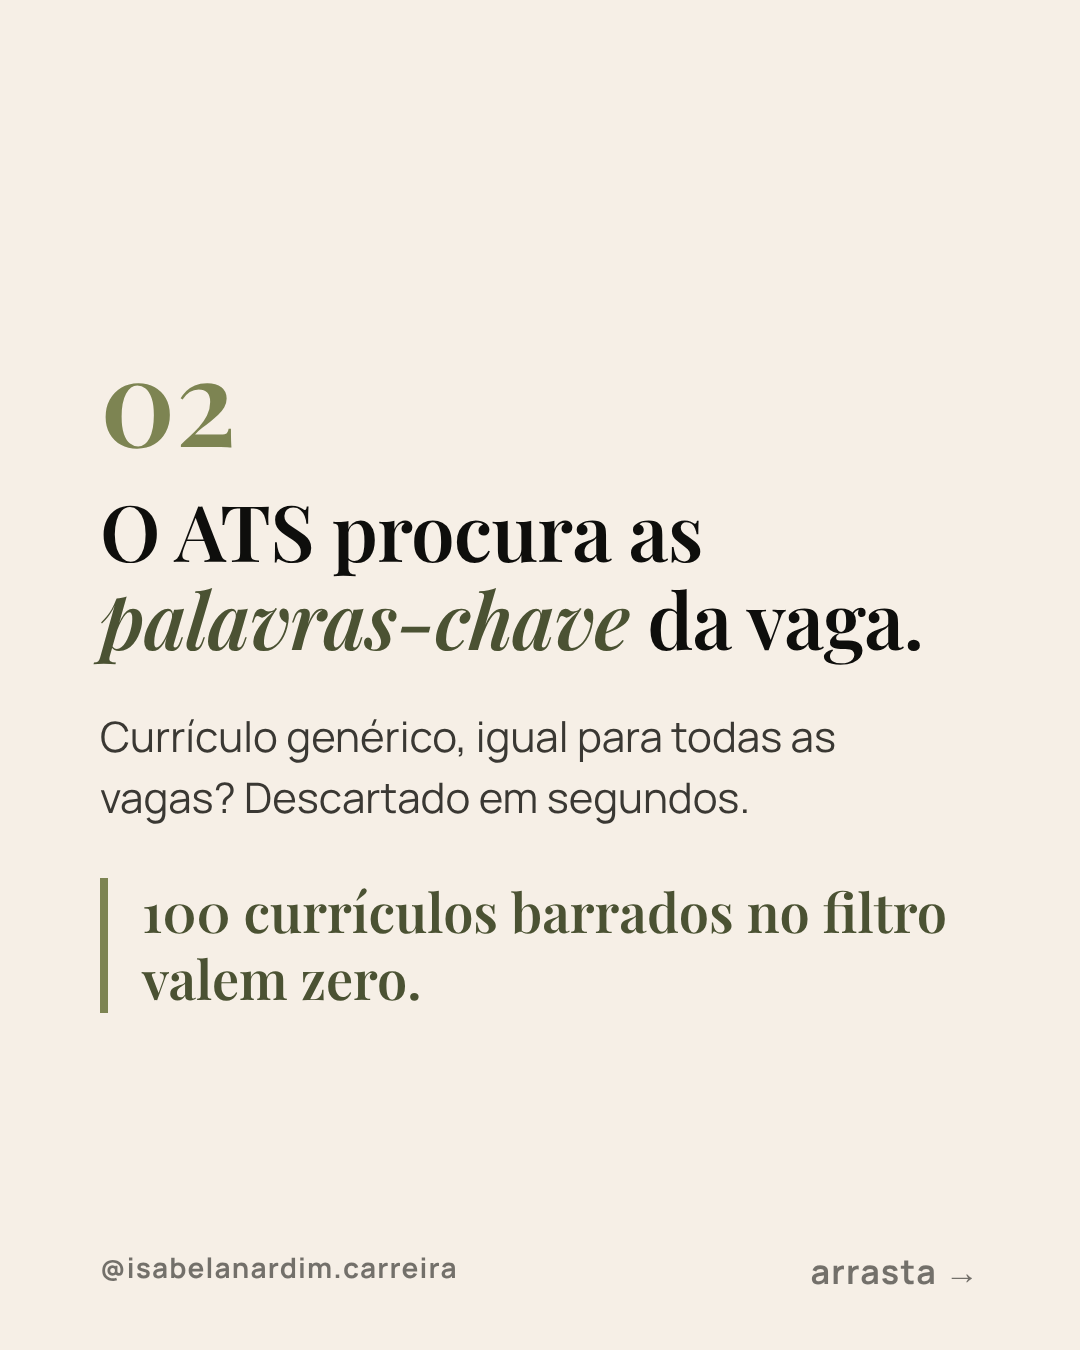
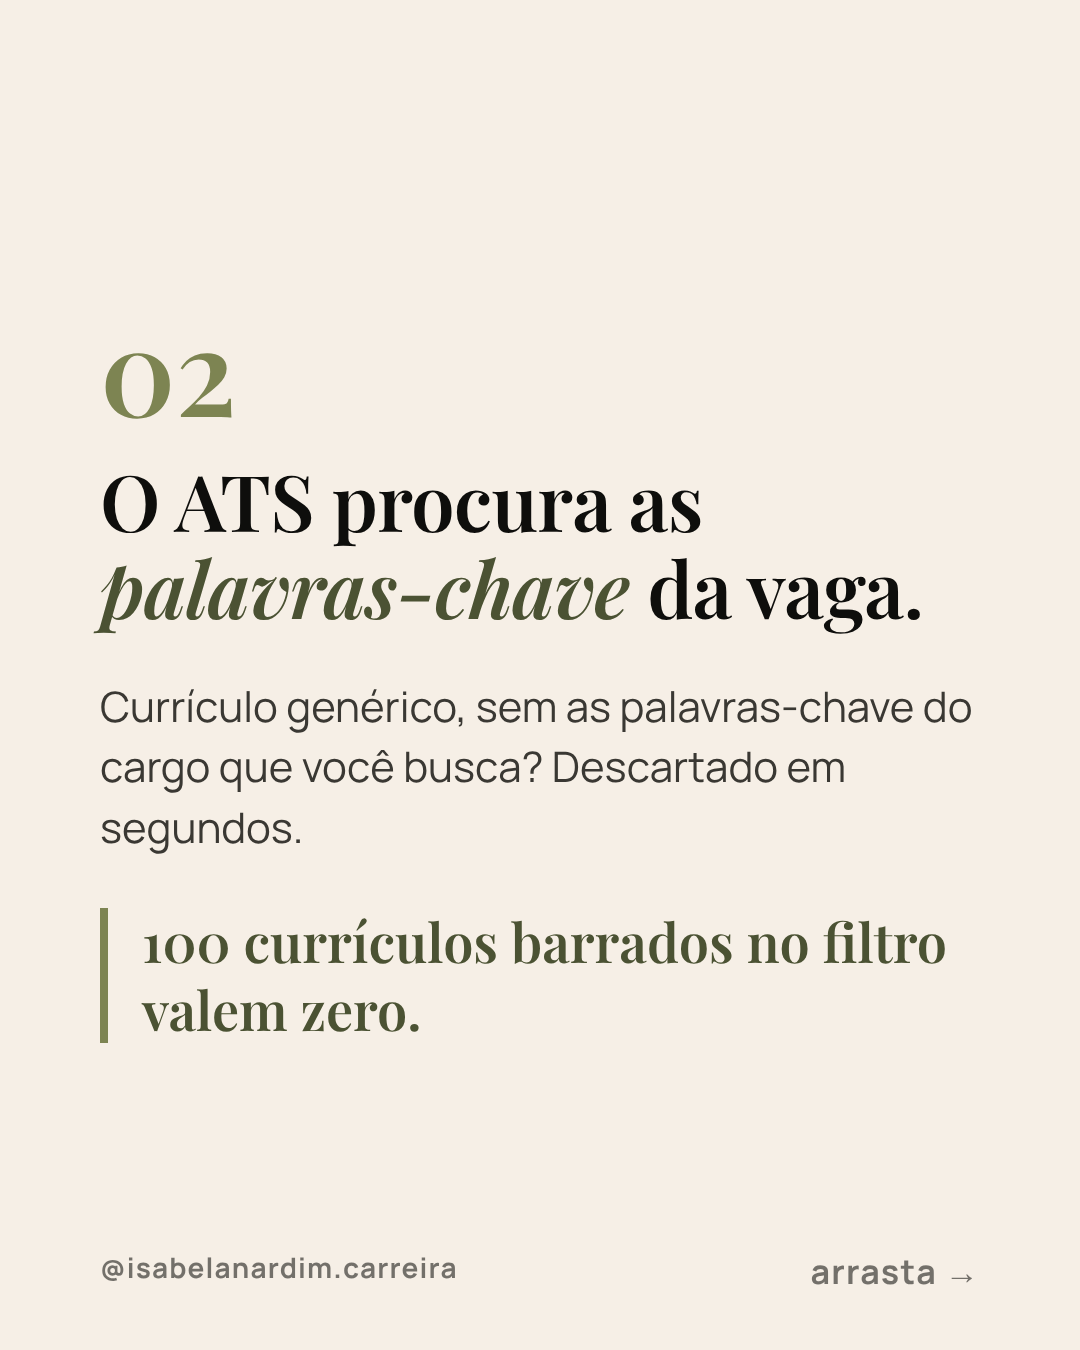
Carrossel 01: tira a ideia de adaptar o currículo a cada vaga
Claude-Session: https://claude.ai/code/session_01AzuLBoXsmNsssuJ9XVMdYB

Changed region(s): [[0.0917, 0.2489, 0.8861, 0.7778]]

diff --git a/conteudo/carrossel-01-mais-curriculo/slides.html b/conteudo/carrossel-01-mais-curriculo/slides.html
@@ -51,7 +51,7 @@ em{font-style:italic}
 <p class="txt">E antes de qualquer pessoa ler, um sistema chamado <b>ATS</b> filtra a maioria.</p><div class="rodape"><span>@isabelanardim.carreira</span><span class="seta">arrasta →</span></div></section>
 <section class="s claro" id="s4"><span class="num">02</span>
 <h2>O ATS procura as <em>palavras-chave</em> da vaga.</h2>
-<p class="txt">Currículo genérico, igual para todas as vagas? Descartado em segundos.</p>
+<p class="txt">Currículo genérico, sem as palavras-chave do cargo que você busca? Descartado em segundos.</p>
 <p class="destaque">100 currículos barrados no filtro valem zero.</p><div class="rodape"><span>@isabelanardim.carreira</span><span class="seta">arrasta →</span></div></section>
 <section class="s claro" id="s5"><span class="num">03</span>
 <h2>E tem mais: quando a vaga era urgente, <em>eu nem divulgava.</em></h2>
@@ -60,12 +60,12 @@ em{font-style:italic}
 <h2>Muita vaga é preenchida por quem é <em>encontrado</em>,<br>não por quem manda mais currículo.</h2><div class="rodape"><span>@isabelanardim.carreira</span><span class="seta">arrasta →</span></div></section>
 <section class="s claro" id="s7"><span class="num">04</span>
 <h2>O que muda na prática:</h2>
-<div class="comp"><div class="col nao"><b>Quem é ignorado</b><p>50 currículos iguais por semana, para qualquer vaga</p></div>
-<div class="col sim"><b>Quem é chamado</b><p>10 vagas-alvo, com o currículo adaptado a cada uma</p></div></div><div class="rodape"><span>@isabelanardim.carreira</span><span class="seta">arrasta →</span></div></section>
+<div class="comp"><div class="col nao"><b>Quem é ignorado</b><p>50 currículos por semana, para qualquer vaga</p></div>
+<div class="col sim"><b>Quem é chamado</b><p>Foco em 1 cargo‑alvo, com um currículo pensado para ele</p></div></div><div class="rodape"><span>@isabelanardim.carreira</span><span class="seta">arrasta →</span></div></section>
 <section class="s claro" id="s8"><span class="num">05</span>
 <h2>E deixa o LinkedIn <em>trabalhar por você:</em></h2>
 <ul class="lista"><li><b>Título:</b> o cargo que você quer + 2 especialidades</li>
-<li><b>Sobre:</b> as palavras-chave das suas vagas-alvo</li>
+<li><b>Sobre:</b> as palavras-chave do seu cargo‑alvo</li>
 <li><b>Experiências:</b> resultados, não tarefas</li></ul><div class="rodape"><span>@isabelanardim.carreira</span><span class="seta">arrasta →</span></div></section>
 <section class="s musgo" id="s9"><p class="kicker">Resumindo</p>
 <h2 class="grande">Não é sobre mandar <em>mais</em> currículo.<br>É sobre ser <em>encontrado.</em></h2><div class="rodape"><span>@isabelanardim.carreira</span><span class="seta">arrasta →</span></div></section>

diff --git a/conteudo/carrossel-01-mais-curriculo/textos.md b/conteudo/carrossel-01-mais-curriculo/textos.md
@@ -14,11 +14,11 @@
 | 1 | Hook | **Mandar mais currículo *não* aumenta suas chances.** O que eu via como recrutadora (e quase ninguém te conta). |
 | 2 | Identificação | Eu sei. Todo mundo fala: *"manda pra tudo, uma hora dá certo."* Fui recrutadora por 6 anos. Deixa eu te mostrar o que acontece com o seu currículo depois que você clica em "candidatar". |
 | 3 | Conteúdo 01 | Uma vaga recebe *centenas* de currículos. E antes de qualquer pessoa ler, um sistema chamado ATS filtra a maioria. |
-| 4 | Conteúdo 02 | O ATS procura as *palavras-chave* da vaga. Currículo genérico, igual para todas as vagas? Descartado em segundos. **100 currículos barrados no filtro valem zero.** |
+| 4 | Conteúdo 02 | O ATS procura as *palavras-chave* da vaga. Currículo genérico, sem as palavras-chave do cargo que você busca? Descartado em segundos. **100 currículos barrados no filtro valem zero.** |
 | 5 | Conteúdo 03 | E tem mais: quando a vaga era urgente, *eu nem divulgava.* Abria o LinkedIn, digitava o cargo e as palavras-chave… e chamava quem aparecia. |
 | 6 | Virada | Ou seja: muita vaga é preenchida por quem é *encontrado*, não por quem manda mais currículo. |
-| 7 | Conteúdo 04 | O que muda na prática: **Quem é ignorado:** 50 currículos iguais por semana, para qualquer vaga · **Quem é chamado:** 10 vagas-alvo, com o currículo adaptado a cada uma |
-| 8 | Conteúdo 05 | E deixa o LinkedIn *trabalhar por você:* Título com o cargo que você quer + 2 especialidades · Sobre com as palavras-chave das suas vagas-alvo · Experiências com resultados, não tarefas |
+| 7 | Conteúdo 04 | O que muda na prática: **Quem é ignorado:** 50 currículos por semana, para qualquer vaga · **Quem é chamado:** foco em 1 cargo-alvo, com um currículo pensado para ele |
+| 8 | Conteúdo 05 | E deixa o LinkedIn *trabalhar por você:* Título com o cargo que você quer + 2 especialidades · Sobre com as palavras-chave do seu cargo-alvo · Experiências com resultados, não tarefas |
 | 9 | Resumo | Resumindo: não é sobre mandar *mais* currículo. É sobre ser *encontrado.* |
 | 10 | CTA | **Salva esse post** e manda pra alguém que está mandando currículo pra tudo. Quer parar de correr atrás de vaga e ser encontrado pelos recrutadores? **Link na bio.** |
 
@@ -33,7 +33,7 @@ Esse é o conselho que mais ouço… e o que mais deixa gente boa desempregada.
 
 Eu fui recrutadora por 6 anos. Do outro lado da mesa, a realidade é outra:
 → um sistema (ATS) filtra a maioria dos currículos antes de alguém ler
-→ currículo genérico, sem as palavras-chave da vaga, é descartado em segundos
+→ currículo genérico, sem as palavras-chave do cargo, é descartado em segundos
 → e quando a vaga é urgente, muitas vezes o recrutador nem divulga: vai direto ao LinkedIn buscar quem aparece
 
 Por isso mandar MAIS currículo não resolve. O que resolve é ser ENCONTRADO.
@@ -61,7 +61,7 @@ Mas eu passei 6 anos do outro lado da mesa, como recrutadora. E o que eu via era
 
 1. Uma vaga recebe centenas de currículos. Antes de qualquer pessoa ler, o ATS filtra a maioria.
 
-2. O ATS procura as palavras-chave da vaga. Currículo genérico, igual para todas as vagas, é descartado em segundos. 100 currículos barrados no filtro valem zero.
+2. O ATS procura as palavras-chave da vaga. Currículo genérico, sem as palavras-chave do cargo que você busca, é descartado em segundos. 100 currículos barrados no filtro valem zero.
 
 3. Quando a vaga era urgente, eu nem divulgava. Abria o LinkedIn, digitava o cargo e as palavras-chave… e chamava quem aparecia.
 
@@ -69,12 +69,12 @@ Ou seja: muita vaga é preenchida por quem é encontrado, não por quem manda ma
 
 O que muda na prática:
 
-❌ 50 currículos iguais por semana, para qualquer vaga
-✅ 10 vagas-alvo, com o currículo adaptado a cada uma
+❌ 50 currículos por semana, para qualquer vaga
+✅ Foco em 1 cargo-alvo, com um currículo pensado para ele
 
 E um LinkedIn que trabalha por você:
 → Título: o cargo que você quer + 2 especialidades
-→ Sobre: as palavras-chave das suas vagas-alvo
+→ Sobre: as palavras-chave do seu cargo-alvo
 → Experiências: resultados, não tarefas
 
 Não é sobre mandar mais currículo. É sobre ser encontrado.
